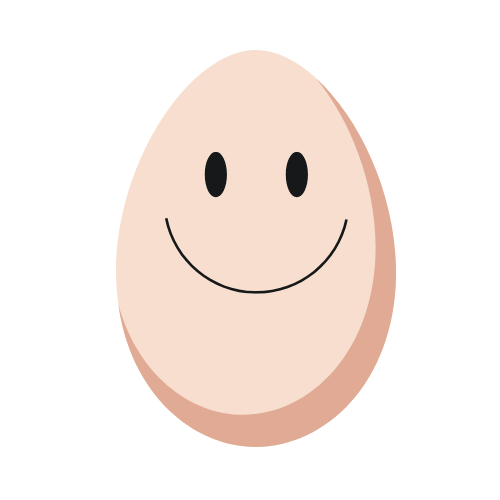
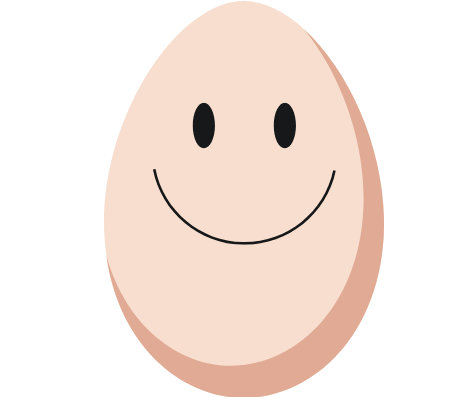
forum templates, model, crud, server updated

diff --git a/templates/profile.html b/templates/profile.html
@@ -20,8 +20,8 @@
               <div class="row g-0">
                 <div class="col-md-4 gradient-custom text-center text-white"
                   style="border-top-left-radius: .5rem; border-bottom-left-radius: .5rem;">
-                  <img src="https://th.bing.com/th/id/R.d40830f2d3e2d6889db42feae14e1976?rik=tZojAzgiFfdt%2fw&riu=http%3a%2f%2fsrnet.ca%2fwp-content%2fuploads%2f2017%2f01%2fDefault-Profile.png&ehk=p2iaRHoA85rN%2b3KMeBpgvoKZ2g%2bgt8m6QnNmyGFwcv8%3d&risl=&pid=ImgRaw&r=0"
-                    alt="profile-pic" class="img-fluid my-5" style="width: 100px;" />
+                  <img src="/static/img/purple-egg.png"
+                    alt="profile-pic" class="img-fluid my-5" style="width: 110px;" />
                     <button type="submit" class="btn btn-link" id="change-avatar" name="avatar">Change Avatar</button>
 
                   <i class="far fa-edit mb-5"></i>

diff --git a/templates/forum.html b/templates/forum.html
@@ -53,7 +53,7 @@
                     <div class="forum-column center">
                     </div>
                     <div class="forum-column">
-                        <h4><i class="bi bi-lightbulb"></i> <a href="#">Products Recomedations</a></h4>
+                        <h4><i class="bi bi-lightbulb"></i> <a href="#">Products Recommendations</a></h4>
                         <p>General discussion, us.</p>
                     </div>
                     <div class="forum-column center">

diff --git a/templates/forum_rules.html b/templates/forum_rules.html
@@ -1,0 +1,1 @@
+Will add rules template here

diff --git a/templates/about.html b/templates/about.html
@@ -1,0 +1,1 @@
+Add info for the app here

diff --git a/model.py b/model.py
@@ -18,6 +18,9 @@ class User(db.Model):
     restrictions = db.relationship('Badingredient', back_populates='user')
     savedsafe = db.relationship('Savedsafe', back_populates='user')
     savednotsafe = db.relationship('Savednotsafe', back_populates='user')
+    forumdiscussions= db.relationship('ForumDiscussions', back_populates='user')
+    forumrecommendations= db.relationship('ForumRecommendations', back_populates='user')
+    forumreports= db.relationship('ForumReports', back_populates='user')
 
     def __repr__(self):
         return f'<User user_id={self.user_id} email={self.email}>'
@@ -68,6 +71,49 @@ class Savednotsafe(db.Model):
     def __repr__(self): 
         return f'<Savednotsafe nsnack_id={self.snack_id} title={self.title}>'
 
+class ForumDiscussions(db.Model):
+    
+    __tablename__ = 'discussions'
+
+    discussion_id = db.Column(db.Integer, primary_key=True, autoincrement=True)
+    user_id = db.Column(db.Integer, db.ForeignKey('users.user_id'), nullable=False)
+    comments= db.Column(db.String(250))
+
+    user = db.relationship('User', back_populates='forumdiscussions')
+
+
+    def __repr__(self): 
+        return f'<forumDiscussions discussion_id={self.discussion_id} comments{self.comments}>'
+
+
+class ForumRecommendations(db.Model):
+
+    __tablename__ = 'recommendations'
+
+    discussion_id = db.Column(db.Integer, primary_key=True, autoincrement=True)
+    user_id = db.Column(db.Integer, db.ForeignKey('users.user_id'), nullable=False)
+    comments = db.Column(db.String(250))
+
+    user = db.relationship('User', back_populates='forumrecommendations')
+
+
+    def __repr__(self): 
+        return f'<forumRecommendations discussion_id={self.discussion_id} comments{self.comments}>'
+
+
+class ForumReports(db.Model):
+
+    __tablename__ = 'reports'
+
+    discussion_id = db.Column(db.Integer, primary_key=True, autoincrement=True)
+    user_id= db.Column(db.Integer, db.ForeignKey('users.user_id'), nullable=False)
+    comments= db.Column(db.String(250))
+
+    user = db.relationship('User', back_populates='forumreports')
+
+
+    def __repr__(self): 
+        return f'<forumReport discussion_id={self.discussion_id} comments{self.comments}>'
 
 
 

diff --git a/server.py b/server.py
@@ -346,13 +346,55 @@ def remove_restriction():
    
 @app.route('/forum')
 def forum():
+    """Display forum page"""
 
     return render_template('forum.html')
 
 @app.route('/forum_rules')
 def forum_rules():
+    """Display forum rules"""
 
     return render_template('forum_rules.html')
+
+@app.route('/forum_comments')
+def create_comment():
+    """Create comments for forum discussions"""
+
+
+
+
+    comment = crud.create_comment_1(user.user_id, comments)
+    db.session.add(comment)
+    db.session.commit()
+
+    return render_template('discussions.html')
+
+@app.route('/forum_comments')
+def create_comment():
+    """Create comments for forum recommendations"""
+
+
+
+
+    comment = crud.create_comment_1(user.user_id, comments)
+    db.session.add(comment)
+    db.session.commit()
+
+    return render_template('discussions.html')
+
+
+@app.route('/forum_comments')
+def create_comment():
+    """Create comments for forum reports"""
+
+
+
+
+    comment = crud.create_comment_1(user.user_id, comments)
+    db.session.add(comment)
+    db.session.commit()
+
+    return render_template('discussions.html')
 
 
 @app.route('/profile')

diff --git a/crud.py b/crud.py
@@ -1,6 +1,6 @@
 """Crud functions"""
 
-from model import db, User, Badingredient, Savedsafe, Savednotsafe, connect_to_db
+from model import db, User, Badingredient, Savedsafe, Savednotsafe, ForumDiscussions, ForumRecommendations, ForumReports, connect_to_db
 
 
 def create_user(email, password, fname, lname):
@@ -8,6 +8,30 @@ def create_user(email, password, fname, lname):
     user = User(email=email, password=password, fname=fname, lname=lname)
 
     return user
+
+
+def create_comment_1(user, comments):
+
+    discussions = ForumDiscussions(user_id=user, comments=comments)
+
+
+    return discussions
+
+def create_comment_2(user, comments):
+
+    recommendations = ForumRecommendations(user_id=user, comments=comments)
+
+
+    return recommendations
+
+
+def create_comment_3(user, comments):
+
+    reports = ForumReports(user_id=user, comments=comments)
+
+
+    return reports
+
 
 
 def create_restrictions(user, dietary_restriction):
